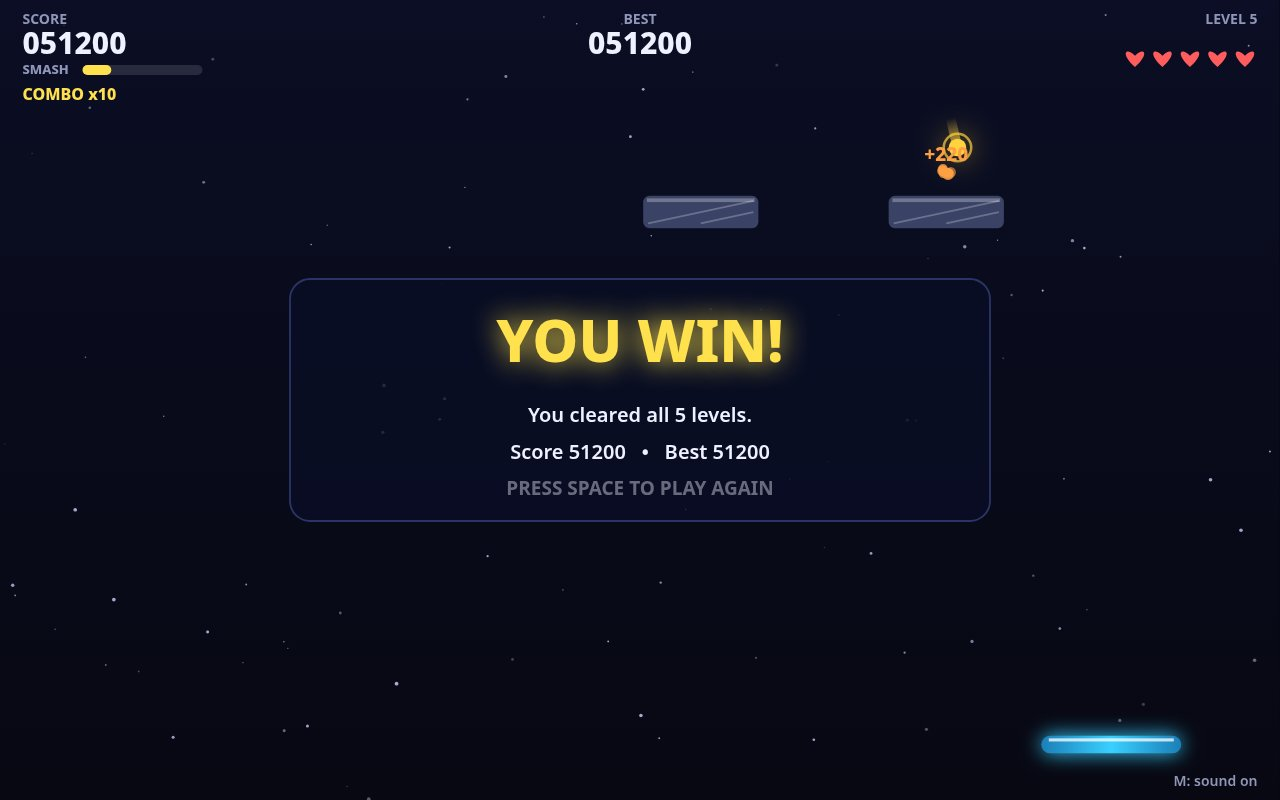
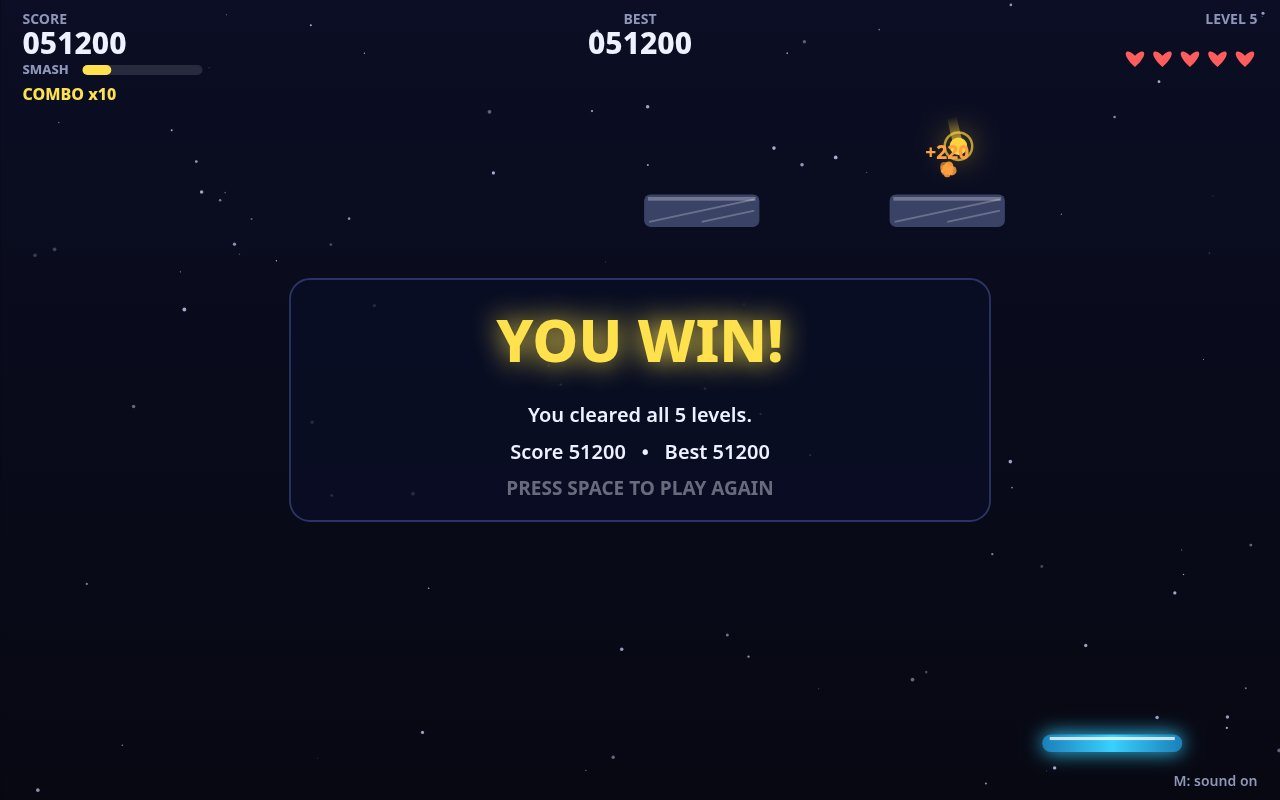
Neon Breaker v4: restage hero screenshot as live SMASH-through-steel moment

Changed region(s): [[0.6875, 0.1562, 0.7812, 0.2812], [0.8125, 0.9062, 0.9375, 0.9375], [0.5, 0.2188, 0.5938, 0.2812]]

diff --git a/game/src/shots.js b/game/src/shots.js
@@ -69,14 +69,122 @@ function sloppyAim(ball, state) {
   return ball.x + Math.sin(state.time * 1.3) * 120;
 }
 
+/** Live steel bricks left on the wall. */
+function steelLeft(state) {
+  let count = 0;
+  for (const brick of state.bricks) {
+    if (brick.alive && brick.unbreakable) count += 1;
+  }
+  return count;
+}
+
+/** Stage the hero shot: a live SMASH moment on level 3 (THE VAULT, the
+ *  first steel level). Play with a skilled aim, arming SMASH whenever the
+ *  meter fills, until the gold ball shatters a steel brick in the same
+ *  frame a power-up is falling and the burst is fresh — the ball is then
+ *  sitting in the gap it just tore through the steel row. The meter is
+ *  refilled for the frame (staging only — a real smash spends it) and the
+ *  renderer draws the compact title pill over the HUD instead of the full
+ *  title panel. Returns false if no attempt lands the frame, in which case
+ *  the caller falls back to the old attract title. */
+function stageHeroSmash(world) {
+  const state = world.state;
+  for (let attempt = 0; attempt < 4; attempt += 1) {
+    world.fullReset();
+    world.resetLevel(3);
+    const aim = attempt % 2 === 0 ? winAim : goodAim;
+    let steelBefore = steelLeft(state);
+    const cap = 8 * 60 * 60; // 8 minutes of game time per attempt
+    for (let step = 0; step < cap; step += 1) {
+      if (state.over || state.cleared) break;
+      let targetX = state.paddle.x + state.paddle.w / 2;
+      const live = state.balls.filter((ball) => !ball.stuck);
+      if (live.length > 0) {
+        let lowest = live[0];
+        for (const ball of live) {
+          if (ball.y > lowest.y) lowest = ball;
+        }
+        targetX = aim(lowest, state);
+      }
+      const arm = state.charge >= 100 && !state.serving && state.smashHits === 0;
+      world.step(STEP, { direction: 0, pointerX: targetX, confirm: true, smash: arm });
+      // Track the steel count on every step. Updating it only while
+      // smashing goes stale when the last smash hit breaks steel (the
+      // count drops in the same step the ball turns white), and the stale
+      // count then fires the capture on a later re-arm — with the ball
+      // nowhere near the row.
+      const steelNow = steelLeft(state);
+      const steelBroke = steelNow < steelBefore;
+      steelBefore = steelNow;
+      if (!steelBroke || state.smashHits === 0) continue;
+      // The ball must be sitting in the steel row it just tore through.
+      let steelTop = Infinity;
+      let steelBottom = -Infinity;
+      for (const brick of state.bricks) {
+        if (brick.alive && brick.unbreakable) {
+          steelTop = Math.min(steelTop, brick.y);
+          steelBottom = Math.max(steelBottom, brick.y + brick.h);
+        }
+      }
+      const ball = state.balls[0];
+      const inRow =
+        ball &&
+        ball.y >= steelTop - ball.r - 8 &&
+        ball.y <= steelBottom + ball.r + 8;
+      if (inRow && state.particles.length >= 8 && state.powerups.length > 0) {
+        state.charge = 100; // staging only: show the meter full
+        state.heroTitle = true;
+        return true;
+      }
+    }
+  }
+  return false;
+}
+
 export function stageShot(name, world) {
   if (name === 'start') {
+    if (stageHeroSmash(world)) return { screen: 'title' };
     world.fullReset();
     world.startAttract();
     for (let i = 0; i < 5 * 60; i += 1) world.stepTitle(STEP);
     return { screen: 'title' };
   }
   if (name === 'play') {
+    // A mid-rally frame on the first steel level when it lands: the gold
+    // smash ball with a steel row still standing reads the game's edge in
+    // one glance. Falls back to the level-1 rally below.
+    for (let attempt = 0; attempt < 3; attempt += 1) {
+      world.fullReset();
+      world.resetLevel(3);
+      let seconds = 0;
+      while (seconds < 150 && !world.state.over && !world.state.cleared) {
+        simulate(world, 1, winAim);
+        seconds += 1;
+        const state = world.state;
+        if (state.charge >= 100 && !state.serving && state.smashHits === 0) {
+          world.trySmash();
+          if (state.smashHits > 0 && state.score > 0 && state.balls.length > 0) {
+            // Let the armed ball climb toward the wall so the frame
+            // catches it mid-flight, not sitting on the paddle.
+            for (let i = 0; i < 90 && state.smashHits > 0; i += 1) {
+              const live = state.balls.filter((ball) => !ball.stuck);
+              let targetX = state.paddle.x + state.paddle.w / 2;
+              if (live.length > 0) {
+                let lowest = live[0];
+                for (const ball of live) {
+                  if (ball.y > lowest.y) lowest = ball;
+                }
+                targetX = winAim(lowest, state);
+              }
+              world.step(STEP, { direction: 0, pointerX: targetX, confirm: true, smash: false });
+              const ball = state.balls[0];
+              if (ball && !ball.stuck && ball.y < state.height * 0.5) break;
+            }
+            if (state.smashHits > 0) return { screen: 'play' };
+          }
+        }
+      }
+    }
     // A mid-rally frame: some bricks broken, a score on the board, the ball
     // still in play. Shorter runs are tried if a longer one clears the level
     // or loses the game first.

diff --git a/game/src/render.js b/game/src/render.js
@@ -267,8 +267,13 @@ export function createRenderer(canvas) {
     if (state.streak >= 3) {
       text(`COMBO x${Math.min(state.streak, 10)}`, pad, 76 * s, 13 * s, PALETTE.gold, 'left', 800);
     }
-    text('BEST', width / 2, 16 * s, 11 * s, PALETTE.muted, 'center', 700);
-    text(String(Math.max(ui.best, state.score)).padStart(6, '0'), width / 2, 36 * s, 24 * s, PALETTE.text, 'center', 800);
+    // The hero title pill (staged shot 1) takes the top centre, so the
+    // BEST readout steps aside there; the real title screen never sets
+    // heroTitle and is untouched.
+    if (!state.heroTitle) {
+      text('BEST', width / 2, 16 * s, 11 * s, PALETTE.muted, 'center', 700);
+      text(String(Math.max(ui.best, state.score)).padStart(6, '0'), width / 2, 36 * s, 24 * s, PALETTE.text, 'center', 800);
+    }
     text(`LEVEL ${state.level}`, width - pad, 16 * s, 11 * s, PALETTE.muted, 'right', 700);
     for (let i = 0; i < state.lives; i += 1) {
       drawHeart(ctx, width - pad - 10 * s - i * 22 * s, 40 * s, 15 * s, PALETTE.danger);
@@ -315,6 +320,32 @@ export function createRenderer(canvas) {
     }
   }
 
+  function drawHeroTitle() {
+    // The staged hero frame (see shots.js): the title shrinks to a slim
+    // pill at the top so the live SMASH moment underneath stays the
+    // picture, with the one instruction line the frame needs. Only drawn
+    // when staging set state.heroTitle; the real title screen is untouched.
+    const s = scale();
+    const panelW = Math.min(520 * s, width * 0.8);
+    const titleSize = 26 * s;
+    const lineSize = 13 * s;
+    const panelH = titleSize + lineSize + 30 * s;
+    const x = (width - panelW) / 2;
+    const y = 6 * s;
+    roundedPath(ctx, x, y, panelW, panelH, 12 * s);
+    ctx.fillStyle = PALETTE.panel;
+    ctx.fill();
+    ctx.strokeStyle = PALETTE.panelEdge;
+    ctx.lineWidth = 1.5 * s;
+    ctx.stroke();
+    ctx.save();
+    ctx.shadowColor = PALETTE.paddle;
+    ctx.shadowBlur = 18 * s;
+    text('NEON BREAKER', width / 2, y + titleSize * 0.95, titleSize, PALETTE.paddle, 'center', 800);
+    ctx.restore();
+    text('Break every brick — charge SMASH, press X to shatter steel', width / 2, y + titleSize * 1.35 + lineSize * 0.75, lineSize, PALETTE.gold, 'center', 600);
+  }
+
   function blinkAlpha(state) {
     return 0.7 + 0.3 * Math.sin(state.time * 4);
   }
@@ -336,20 +367,25 @@ export function createRenderer(canvas) {
     drawTexts(state);
     ctx.restore();
     if (screen === SCREEN_TITLE) {
-      drawOverlay(
-        [
-          { text: 'NEON BREAKER', size: 52 * s, color: PALETTE.paddle, glow: true, gap: 10 },
-          { text: 'Break every brick. Don\'t drop the ball.', size: 16 * s, color: PALETTE.text, weight: 600, gap: 14 },
-          { text: 'Move: mouse or ← → arrow keys', size: 14 * s, color: PALETTE.muted, weight: 600, gap: 2 },
-          { text: 'Launch / start: Space or click     Pause: P     Sound: M', size: 14 * s, color: PALETTE.muted, weight: 600, gap: 2 },
-          { text: 'Catch W (wide), M (multiball), S (slow), + (extra life)', size: 14 * s, color: PALETTE.muted, weight: 600, gap: 2 },
-          { text: 'Break bricks to charge SMASH — press X to blast through bricks & steel', size: 14 * s, color: PALETTE.gold, weight: 600, gap: 2 },
-          { text: 'Last bricks left? HUNT guides your ball to them', size: 14 * s, color: PALETTE.muted, weight: 600, gap: 14 },
-          { text: `BEST  ${String(ui.best).padStart(6, '0')}`, size: 15 * s, color: PALETTE.gold, gap: 10 },
-          { text: 'CLICK OR PRESS SPACE TO START', size: 16 * s, color: PALETTE.text, alpha: blinkAlpha(state), gap: 0 },
-        ],
-        0.86,
-      );
+      if (state.heroTitle) {
+        drawHud(state, ui);
+        drawHeroTitle();
+      } else {
+        drawOverlay(
+          [
+            { text: 'NEON BREAKER', size: 52 * s, color: PALETTE.paddle, glow: true, gap: 10 },
+            { text: 'Break every brick. Don\'t drop the ball.', size: 16 * s, color: PALETTE.text, weight: 600, gap: 14 },
+            { text: 'Move: mouse or ← → arrow keys', size: 14 * s, color: PALETTE.muted, weight: 600, gap: 2 },
+            { text: 'Launch / start: Space or click     Pause: P     Sound: M', size: 14 * s, color: PALETTE.muted, weight: 600, gap: 2 },
+            { text: 'Catch W (wide), M (multiball), S (slow), + (extra life)', size: 14 * s, color: PALETTE.muted, weight: 600, gap: 2 },
+            { text: 'Break bricks to charge SMASH — press X to blast through bricks & steel', size: 14 * s, color: PALETTE.gold, weight: 600, gap: 2 },
+            { text: 'Last bricks left? HUNT guides your ball to them', size: 14 * s, color: PALETTE.muted, weight: 600, gap: 14 },
+            { text: `BEST  ${String(ui.best).padStart(6, '0')}`, size: 15 * s, color: PALETTE.gold, gap: 10 },
+            { text: 'CLICK OR PRESS SPACE TO START', size: 16 * s, color: PALETTE.text, alpha: blinkAlpha(state), gap: 0 },
+          ],
+          0.86,
+        );
+      }
     } else if (screen === SCREEN_PAUSED) {
       drawHud(state, ui);
       drawOverlay(
